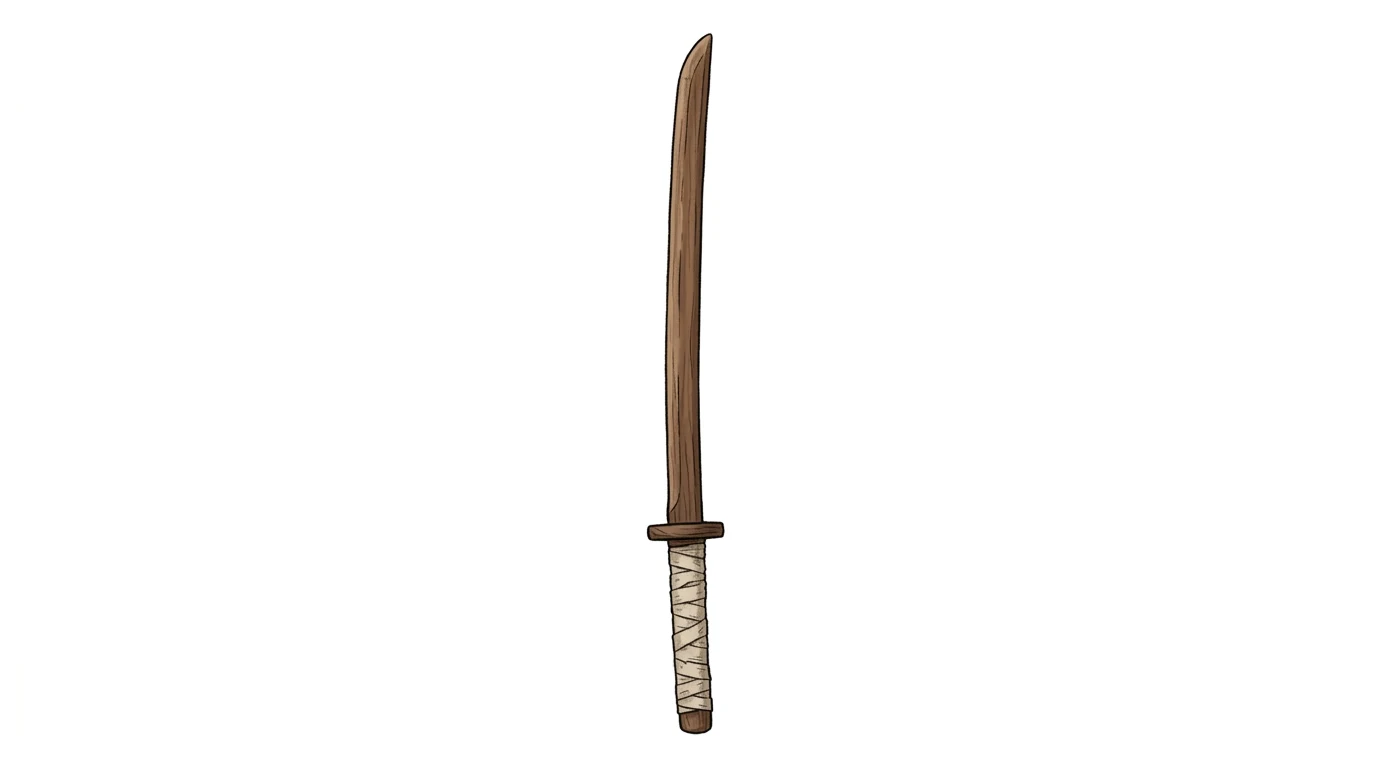
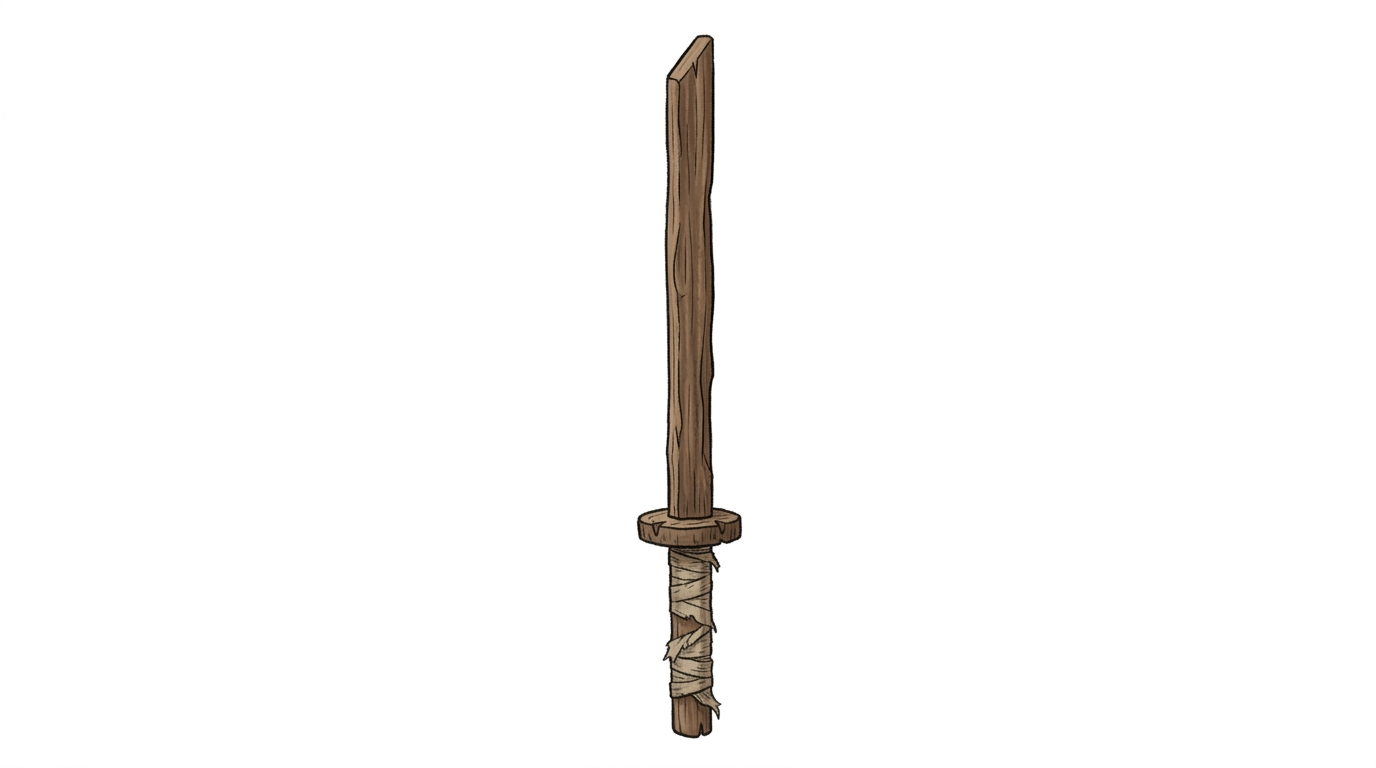
목검 2종(참나무·박달나무), 홑옷 치켜들기·내려치기 자세와 무기 붙이는 값 추가
Claude-Session: https://claude.ai/code/session_01QuTLXg2xFLQ1VXnbRSEuD1

Changed region(s): [[0.4375, 0.0312, 0.5625, 0.9688]]

diff --git a/CLAUDE.md b/CLAUDE.md
@@ -83,8 +83,21 @@ docs/          문서 사본
 
 - 무기는 물건만 따로 그린 그림 1장. 캐릭터 손에 코드로 붙여 휘두르고, 같은 그림을 가방 아이콘·바닥 아이템으로도 씀(작게 줄여서).
 - 규격: **투명 배경, 240×960 캔버스, 칼끝이 위로 똑바로 섬. 손으로 쥐는 점(손잡이 가운데)이 항상 (120, 800)**. 이 점을 캐릭터 주먹 위치에 맞추고, 이 점을 중심으로 돌림. 크기는 캐릭터 그림과 같은 비율(캐릭터 정면 키 640 기준)이라 캐릭터와 같은 배율로 줄이면 됨.
-- `wood_pine`(1-1 소나무 목검, 첫 무기): 길이 480(캐릭터 키의 약 75%, 강콩 확인 필요). 원본 `assets/source/weapon_wood_pine.png`.
-- 휘두르기: 옷마다 빈손 **치켜들기·내려치기** 자세 그림(아직 없음, 홑옷부터 생성 중)에 주먹 위치·각도를 재서 넘길 예정. 코드는 치켜든 각도 → 내려친 각도로 빠르게 돌림.
+- 목검 3종(2026-10-10 합격): `wood_pine` 1-1 소나무 목검(첫 무기, 길이 480), `wood_oak` 1-2 참나무 목검(500), `wood_bakdal` 1-3 박달나무 목검(520). 길이는 캐릭터 키 640 기준, 단계가 오를수록 조금씩 길게(강콩 확인 필요). 원본 `assets/source/weapon_<id>.png`.
+- **휘두르기 자세 (홑옷만 있음, 2026-10-10)**: `outfit1_hotot/{front,side,back}_raise.png`(치켜들기), `{front,side,back}_strike.png`(내려치기). 손은 빈 주먹, 무기는 코드가 붙임. **캔버스 640×720, 발 y=700, 몸통 가운데 x=320**(주먹 그림과 같은 규칙). 옆면은 왼쪽을 봄(오른쪽은 반전, 주먹 x는 640−x, 각도는 부호 반대).
+- 동작 제안: `stand` → `raise`(약 80ms) → `strike`(약 160ms, 이 순간 맞힘 판정·먹선 궤적) → `stand`. 무기는 raise 각도에서 strike 각도로 빠르게 돌림(사이 각도는 코드가 보간). 시간은 `data/`.
+- 무기 붙이는 값(홑옷, 기획 쪽에서 재고 합성해 본 값 — 게임에서 보고 조정). 주먹 = 무기 쥐는 점 (120,800)을 맞출 위치(640×720 기준), 각도 = 칼끝이 위를 향한 상태에서 시계 방향 회전(도), 뒤 = 무기를 몸 뒤에 그림, 세로 = 무기 세로 줄임(화면 쪽으로 향해 짧아 보이게):
+
+| 그림 | 주먹 (x, y) | 각도 | 뒤 | 세로 |
+|---|---|---|---|---|
+| front_raise | (150, 160) | 35 | 예 | 1.0 |
+| front_strike | (360, 464) | 215 | 아니오 | 0.75 |
+| side_raise | (214, 136) | 45 | 예 | 1.0 |
+| side_strike | (210, 480) | −105 | 아니오 | 1.0 |
+| back_raise | (480, 160) | −35 | 아니오 | 1.0 |
+| back_strike | (430, 390) | 200 | 예 | 0.7 |
+
+- 원본: `assets/source/outfit1_hotot_raise.jpg`, `outfit1_hotot_strike.jpg`. 새 자세 그림은 머리가 서 있기보다 조금 크게 그려졌음(게임 크기에서는 거의 안 보임).
 - **궤적은 "붓으로 그은 먹선"(2026-10-10 강콩 확정, 지켜보며 조정)**: 휘두른 자리에 먹물 붓 획 같은 반달 잔상이 남았다 번지며 사라짐. 나중에 무기 단계가 오르면 먹선에 색을 입힐 수 있게(목검 = 먹색) 색을 `data/`로.
 - 타격감 연출(코드): 맞는 순간 아주 짧은 멈춤(약 0.05~0.08초), 작은 타격 표시, 아주 약한 화면 흔들림, 무기별 휘두르는 속도·밀어내는 힘. 모두 `data/`에 임시값.
 
